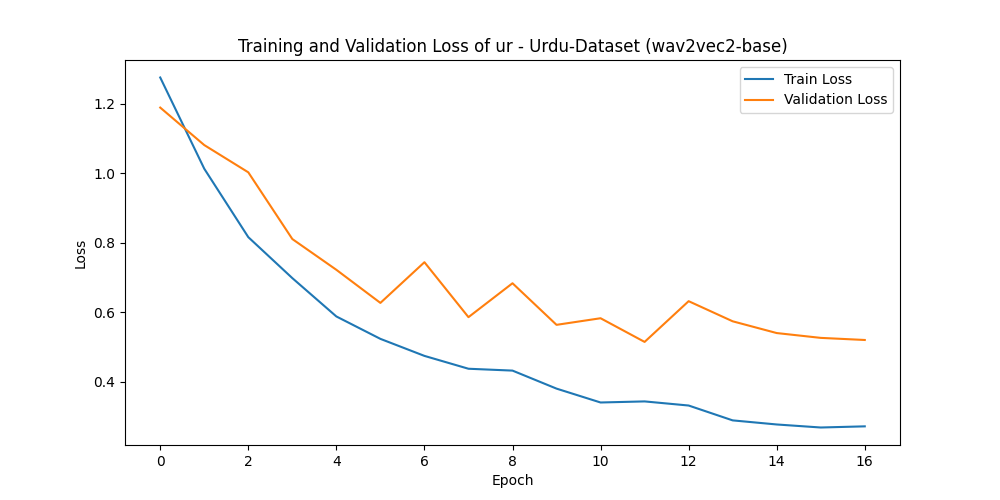
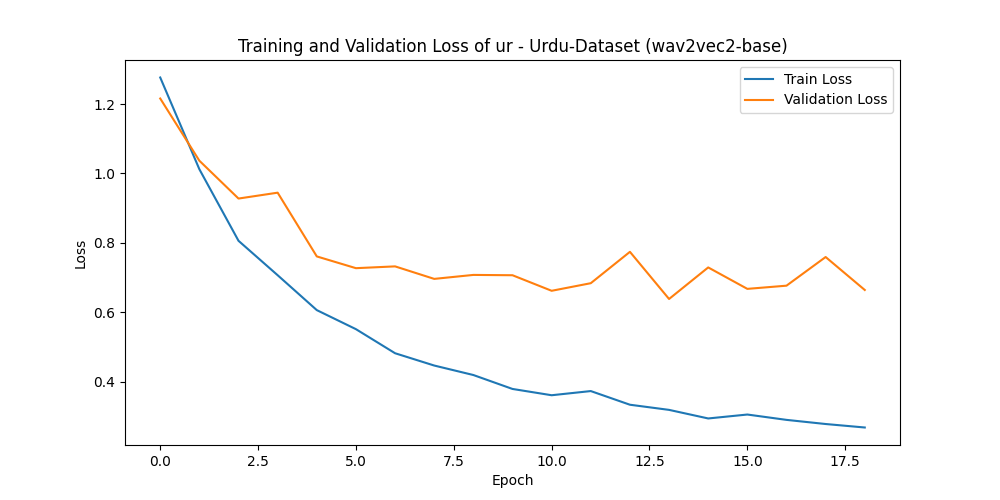
model checing + logs

diff --git a/src/model/base_models.py b/src/model/base_models.py
@@ -1,7 +1,8 @@
 import numpy as np
 import torch
 import torch.nn as nn
-from transformers import (AutoFeatureExtractor, HubertModel, Wav2Vec2Model,
+from transformers import (AutoFeatureExtractor, AutoProcessor, HubertModel,
+                          Wav2Vec2FeatureExtractor, Wav2Vec2Model,
                           Wav2Vec2Processor, WavLMModel, WhisperModel,
                           WhisperProcessor)
 
@@ -25,11 +26,24 @@ class BaseFeatureExtractor(nn.Module):
         """
         Extract features from the model.
         """
-        input_values = self.processor(
-            audio, sampling_rate=sr, return_tensors="pt"
-        ).input_values.to(self.device)
+        if isinstance(audio, torch.Tensor):
+            audio = audio.detach().cpu().numpy()
+        if isinstance(self.model, WhisperModel):
+            input_values = self.processor(
+                audio, sampling_rate=sr, return_tensors="pt"
+            ).input_features.to(self.device)
+        else:
+            input_values = self.processor(
+                audio, sampling_rate=sr, return_tensors="pt"
+            ).input_values.to(self.device)
+
         with torch.no_grad():
-            outputs = self.model(input_values, output_hidden_states=True)
+            if isinstance(self.model, WhisperModel):
+                outputs = self.model.encoder(
+                    input_values, output_hidden_states=True
+                )
+            else:
+                outputs = self.model(input_values, output_hidden_states=True)
         last_hidden_states = outputs.last_hidden_state
 
         # Apply Mean Pooling
@@ -69,6 +83,6 @@ class HuBERTFeatureExtractor(BaseFeatureExtractor):
         model_name: str = "facebook/hubert-base-ls960",
         device: str = None,
     ):
-        processor = Wav2Vec2Processor
+        processor = AutoProcessor
         model = HubertModel
         super().__init__(model_name, processor, model, device)

diff --git a/src/scripts/run_training.py b/src/scripts/run_training.py
@@ -9,7 +9,10 @@ import torch.optim as optim
 from sklearn.metrics import classification_report, confusion_matrix
 from torch.optim.lr_scheduler import ReduceLROnPlateau
 
-from src.model.base_models import Wav2Vec2FeatureExtractor
+from src.model.base_models import (HuBERTFeatureExtractor,
+                                   Wav2Vec2FeatureExtractor,
+                                   WavLMFeatureExtractor,
+                                   WhisperFeatureExtractor)
 from src.model.model import SERBenchmarkModel
 from src.utils.constant import BASE_MODEL, DATASET
 from src.utils.data_loader import get_dataloader
@@ -151,8 +154,8 @@ def train(
                     if epoch_loss < best_loss:
                         best_loss = epoch_loss
                         patience_counter = 0
-                        print("Saving best model...")
-                        torch.save(model.state_dict(), model_path)
+                        # print("Saving best model...")
+                        # torch.save(model.state_dict(), model_path)
                     else:
                         patience_counter += 1
                         if patience_counter >= EARLY_STOPPING_PATIENCE:
@@ -211,7 +214,7 @@ def train(
 
 if __name__ == "__main__":
     CUR_DATASET = DATASET.URDU_DATASET
-    CUR_BASE_MODEL = BASE_MODEL.WAV2VEC2_BASE.value
+    CUR_BASE_MODEL = BASE_MODEL.OPENAI_WHISPER_SMALL.value
 
     device = torch.device("cuda" if torch.cuda.is_available() else "cpu")
     dataset = SpeechEmotionDataset(
@@ -235,7 +238,7 @@ if __name__ == "__main__":
     ac_labels = [emotion_converter(y, mode="decode") for y in en_labels]
     print(ac_labels)
 
-    feature_extractor = Wav2Vec2FeatureExtractor(
+    feature_extractor = WhisperFeatureExtractor(
         model_name=CUR_BASE_MODEL, device=device
     )
     base_model_name = feature_extractor.model_name.split("/")[1]

diff --git a/src/model/model.py b/src/model/model.py
@@ -12,7 +12,7 @@ class SERBenchmarkModel(nn.Module):
         feature_extractor: nn.Module,
         device: str,
         num_classes: int,
-        hidden_dim: int = 256,
+        hidden_dim: int = 512,
         dropout: float = 0.3,
     ):
         super(SERBenchmarkModel, self).__init__()
@@ -26,7 +26,7 @@ class SERBenchmarkModel(nn.Module):
                 self.feature_extractor.model.config.hidden_size,
                 self.hidden_dim,
             ),
-            nn.ReLU(),
+            nn.GELU(),
             nn.Dropout(self.dropout),
             nn.Linear(self.hidden_dim, num_classes),
         )

diff --git a/src/utils/constant.py b/src/utils/constant.py
@@ -145,8 +145,8 @@ class BASE_MODEL(Enum):
     WAV2VEC2_BASE = "facebook/wav2vec2-base"
     WAV2VEC2_LARGE_960H = "facebook/wav2vec2-large-960h"
     WAV2VEC2_LARGE_LV60 = "facebook/wav2vec2-large-lv60"
-    HUBERT_LARGE_LS960 = "facebook/hubert-large-ls960"
-    HUBERT_BASE = "facebook/hubert-base"
+    HUBERT_LARGE_LS960 = "facebook/hubert-large-ls960-ft"
+    HUBERT_BASE = "https://dl.fbaipublicfiles.com/hubert/hubert_base_ls960.pt"
     WAVLM_BASE_PLUS = "microsoft/wavlm-base-plus"
     WAVLM_LARGE = "microsoft/wavlm-large"
     XLS_R_300M = "facebook/wav2vec2-xls-r-300m"
